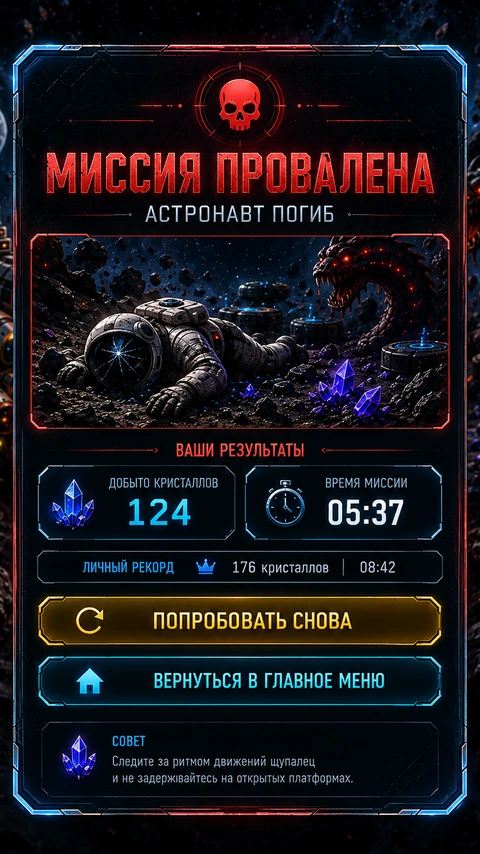
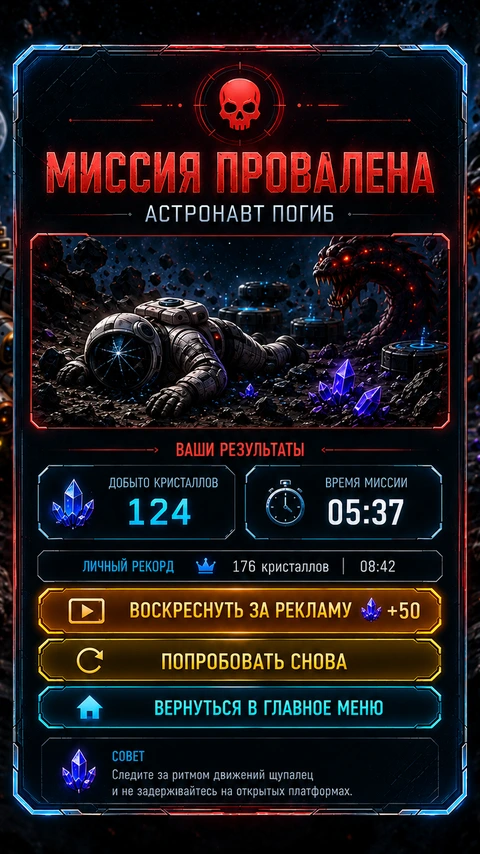
Экран GAME OVER — новый макет с 3 кнопками (лежал в корне репозитория с 8 сентября, но в игру подставлялся СТАРЫЙ 2-кнопочный: я его тогда обрезал, но забыл сохранить в assets/ui_designs).
1) Новый макет вписан под канвас 480x854 (аспект 0.75 против 0.562 — вписан по высоте с обрезкой полей, без искажений).
2) Все 3 кнопки откалиброваны точным сканом: ВОСКРЕСНУТЬ ЗА РЕКЛАМУ (38..441 x 588..633), ПОПРОБОВАТЬ СНОВА (639..681), ВЕРНУТЬСЯ В МЕНЮ (686..728). Старые координаты были от 2-кнопочного макета и вели мимо.
3) Реальная статистика вместо запечённых заглушек: ДОБЫТО КРИСТАЛЛОВ, ВРЕМЯ МИССИИ, ЛИЧНЫЙ РЕКОРД (кристаллы + лучшее время). Заглушки 124/05:37/176/08:42 перекрываются фоном.
4) Бонус +50 кристаллов за просмотр рекламы (Crystals.grantBonus) — раньше кнопка обещала +50, но ничего не начисляла.

diff --git a/js/ui_manager.js b/js/ui_manager.js
@@ -63,11 +63,11 @@ const UIManager = (() => {
       { id: 'back', x: 365, y: 122, w: 33,  h: 36, pad: 8 },  // X (закрыть)
       { id: 'back', x: 0,   y: 0,   w: 480, h: 854 },  // запасная зона: клик мимо кнопок тоже закрывает (без вспышки)
     ],
-    // Game Over (game_over_screen.png): 3 кнопки
+    // Game Over (game_over_screen.webp): 3 кнопки — ТОЧНЫЙ скан границ 17.09.2026
     game_over: [
-      { id: 'retry',    x: 90, y: 560, w: 300, h: 46 },  // ПОПРОБОВАТЬ СНОВА
-      { id: 'to_menu',  x: 90, y: 618, w: 300, h: 46 },  // ВЕРНУТЬСЯ В ГЛАВНОЕ МЕНЮ
-      { id: 'watch_ad', x: 90, y: 676, w: 300, h: 52 },  // СМОТРЕТЬ ВИДЕО +1 жизнь
+      { id: 'watch_ad', x: 38, y: 588, w: 403, h: 45 },  // ВОСКРЕСНУТЬ ЗА РЕКЛАМУ +50
+      { id: 'retry',    x: 38, y: 639, w: 403, h: 42 },  // ПОПРОБОВАТЬ СНОВА
+      { id: 'to_menu',  x: 38, y: 686, w: 403, h: 42 },  // ВЕРНУТЬСЯ В ГЛАВНОЕ МЕНЮ
     ],
   };
 
@@ -158,7 +158,7 @@ const UIManager = (() => {
       case STATE.RECORDS:
         _overlay(ctx); _full(ctx, 'records_screen'); _drawRecordsValues(ctx); break;
       case STATE.GAME_OVER:
-        _overlay(ctx); _full(ctx, 'game_over_screen'); break;
+        _overlay(ctx); _full(ctx, 'game_over_screen'); _drawGameOverValues(ctx); break;
       case STATE.REWARD_AD:
         _drawAdStub(ctx, dt || 0); break;
       case STATE.PLAYING:
@@ -323,6 +323,48 @@ const UIManager = (() => {
         ctx.drawImage(img, 8, 10, 54, 54);
       }
     } catch (e) { console.warn('[UI] _drawMuteIcon:', e); }
+  }
+
+  // Реальные значения поверх экрана Game Over (в макете они запечены как
+  // заглушки 124 / 05:37 / 176 кристаллов / 08:42 — закрываем их фоном и
+  // рисуем фактические). Координаты сняты точным сканом границ 17.09.2026.
+  function _drawGameOverValues(ctx) {
+    try {
+      const st      = Save.getStats();
+      const rec     = Crystals.getRecord();
+      const mined   = Crystals.getSessionTotal();      // доставлено за эту миссию
+      const runTime = Game.sessionTime;                // длительность миссии, сек
+      const fmt = s => {
+        s = Math.max(0, Math.round(s));
+        const m = Math.floor(s / 60), ss = s % 60;
+        return String(m).padStart(2, '0') + ':' + String(ss).padStart(2, '0');
+      };
+
+      ctx.save();
+      // перекрываем запечённые заглушки фоном слотов (фон однородный, ~#00050a)
+      ctx.fillStyle = '#00060b';
+      ctx.fillRect(126, 494, 70, 34);   // "124"
+      ctx.fillRect(324, 494, 84, 34);   // "05:37"
+      ctx.fillRect(230, 555, 102, 21);  // "176 кристаллов"
+      ctx.fillRect(356, 555, 42, 21);   // "08:42"
+
+      ctx.textAlign = 'center';
+      ctx.textBaseline = 'middle';
+
+      ctx.font = 'bold 30px sans-serif';
+      ctx.fillStyle = '#5fd8ff';
+      ctx.fillText(String(mined), 159, 511);           // ДОБЫТО КРИСТАЛЛОВ
+
+      ctx.fillStyle = '#ffffff';
+      ctx.fillText(fmt(runTime), 365, 511);            // ВРЕМЯ МИССИИ
+
+      ctx.font = 'bold 13px sans-serif';
+      ctx.fillStyle = '#dceeff';
+      ctx.fillText(String(rec) + ' кристаллов', 276, 565);
+      ctx.fillText(st.bestTime > 0 ? fmt(st.bestTime) : '--:--', 377, 565);
+
+      ctx.restore();
+    } catch (e) { console.warn('[UI] _drawGameOverValues:', e); }
   }
 
   function _drawSettingsExtras(ctx, dt) {

diff --git a/js/game.js b/js/game.js
@@ -17,6 +17,7 @@ const Game = (() => {
   let deathTimer      = 0;
   let waitingDeath    = false;
   let invincTimer     = 0;  // неуязвимость после respawn
+  const REVIVE_BONUS  = 50; // кристаллов за просмотр рекламы (соответствует надписи на кнопке)
   let miningTimer     = 0;  // таймер автодобычи при удержании
   let _pendingGameOver = false;  // ожидание показа экрана Game Over
   let _runStart        = 0;      // sessionTime старта текущего рейса (для лучшего времени)
@@ -80,6 +81,7 @@ const Game = (() => {
     Astronaut.startSpawning();
     Oxygen.reset();
     Crystals.resetRun();
+    Crystals.grantBonus(REVIVE_BONUS);  // награда, обещанная на кнопке «ВОСКРЕСНУТЬ ЗА РЕКЛАМУ +50»
     invincTimer = 3.0;
     running  = true;
     lastTime = performance.now();

diff --git a/js/crystals.js b/js/crystals.js
@@ -26,6 +26,13 @@ const Crystals = (() => {
     carried = 0;
   }
 
+  // Бонусные кристаллы (награда за просмотр рекламы на экране Game Over).
+  // Кладём сразу в "несёт" — игрок должен довезти их до шаттла, как обычную добычу.
+  function grantBonus(amount) {
+    carried += amount;
+    console.log(`[Crystals] Бонус +${amount}, несёт: ${carried}`);
+  }
+
   // ---------- Добыча (тап кнопки ДОБЫЧА) ----------
 
   function mine(bypass_interval = false) {
@@ -93,6 +100,7 @@ const Crystals = (() => {
     getCarried,
     getSessionTotal,
     getRecord,
+    grantBonus,
   };
 
 })();
